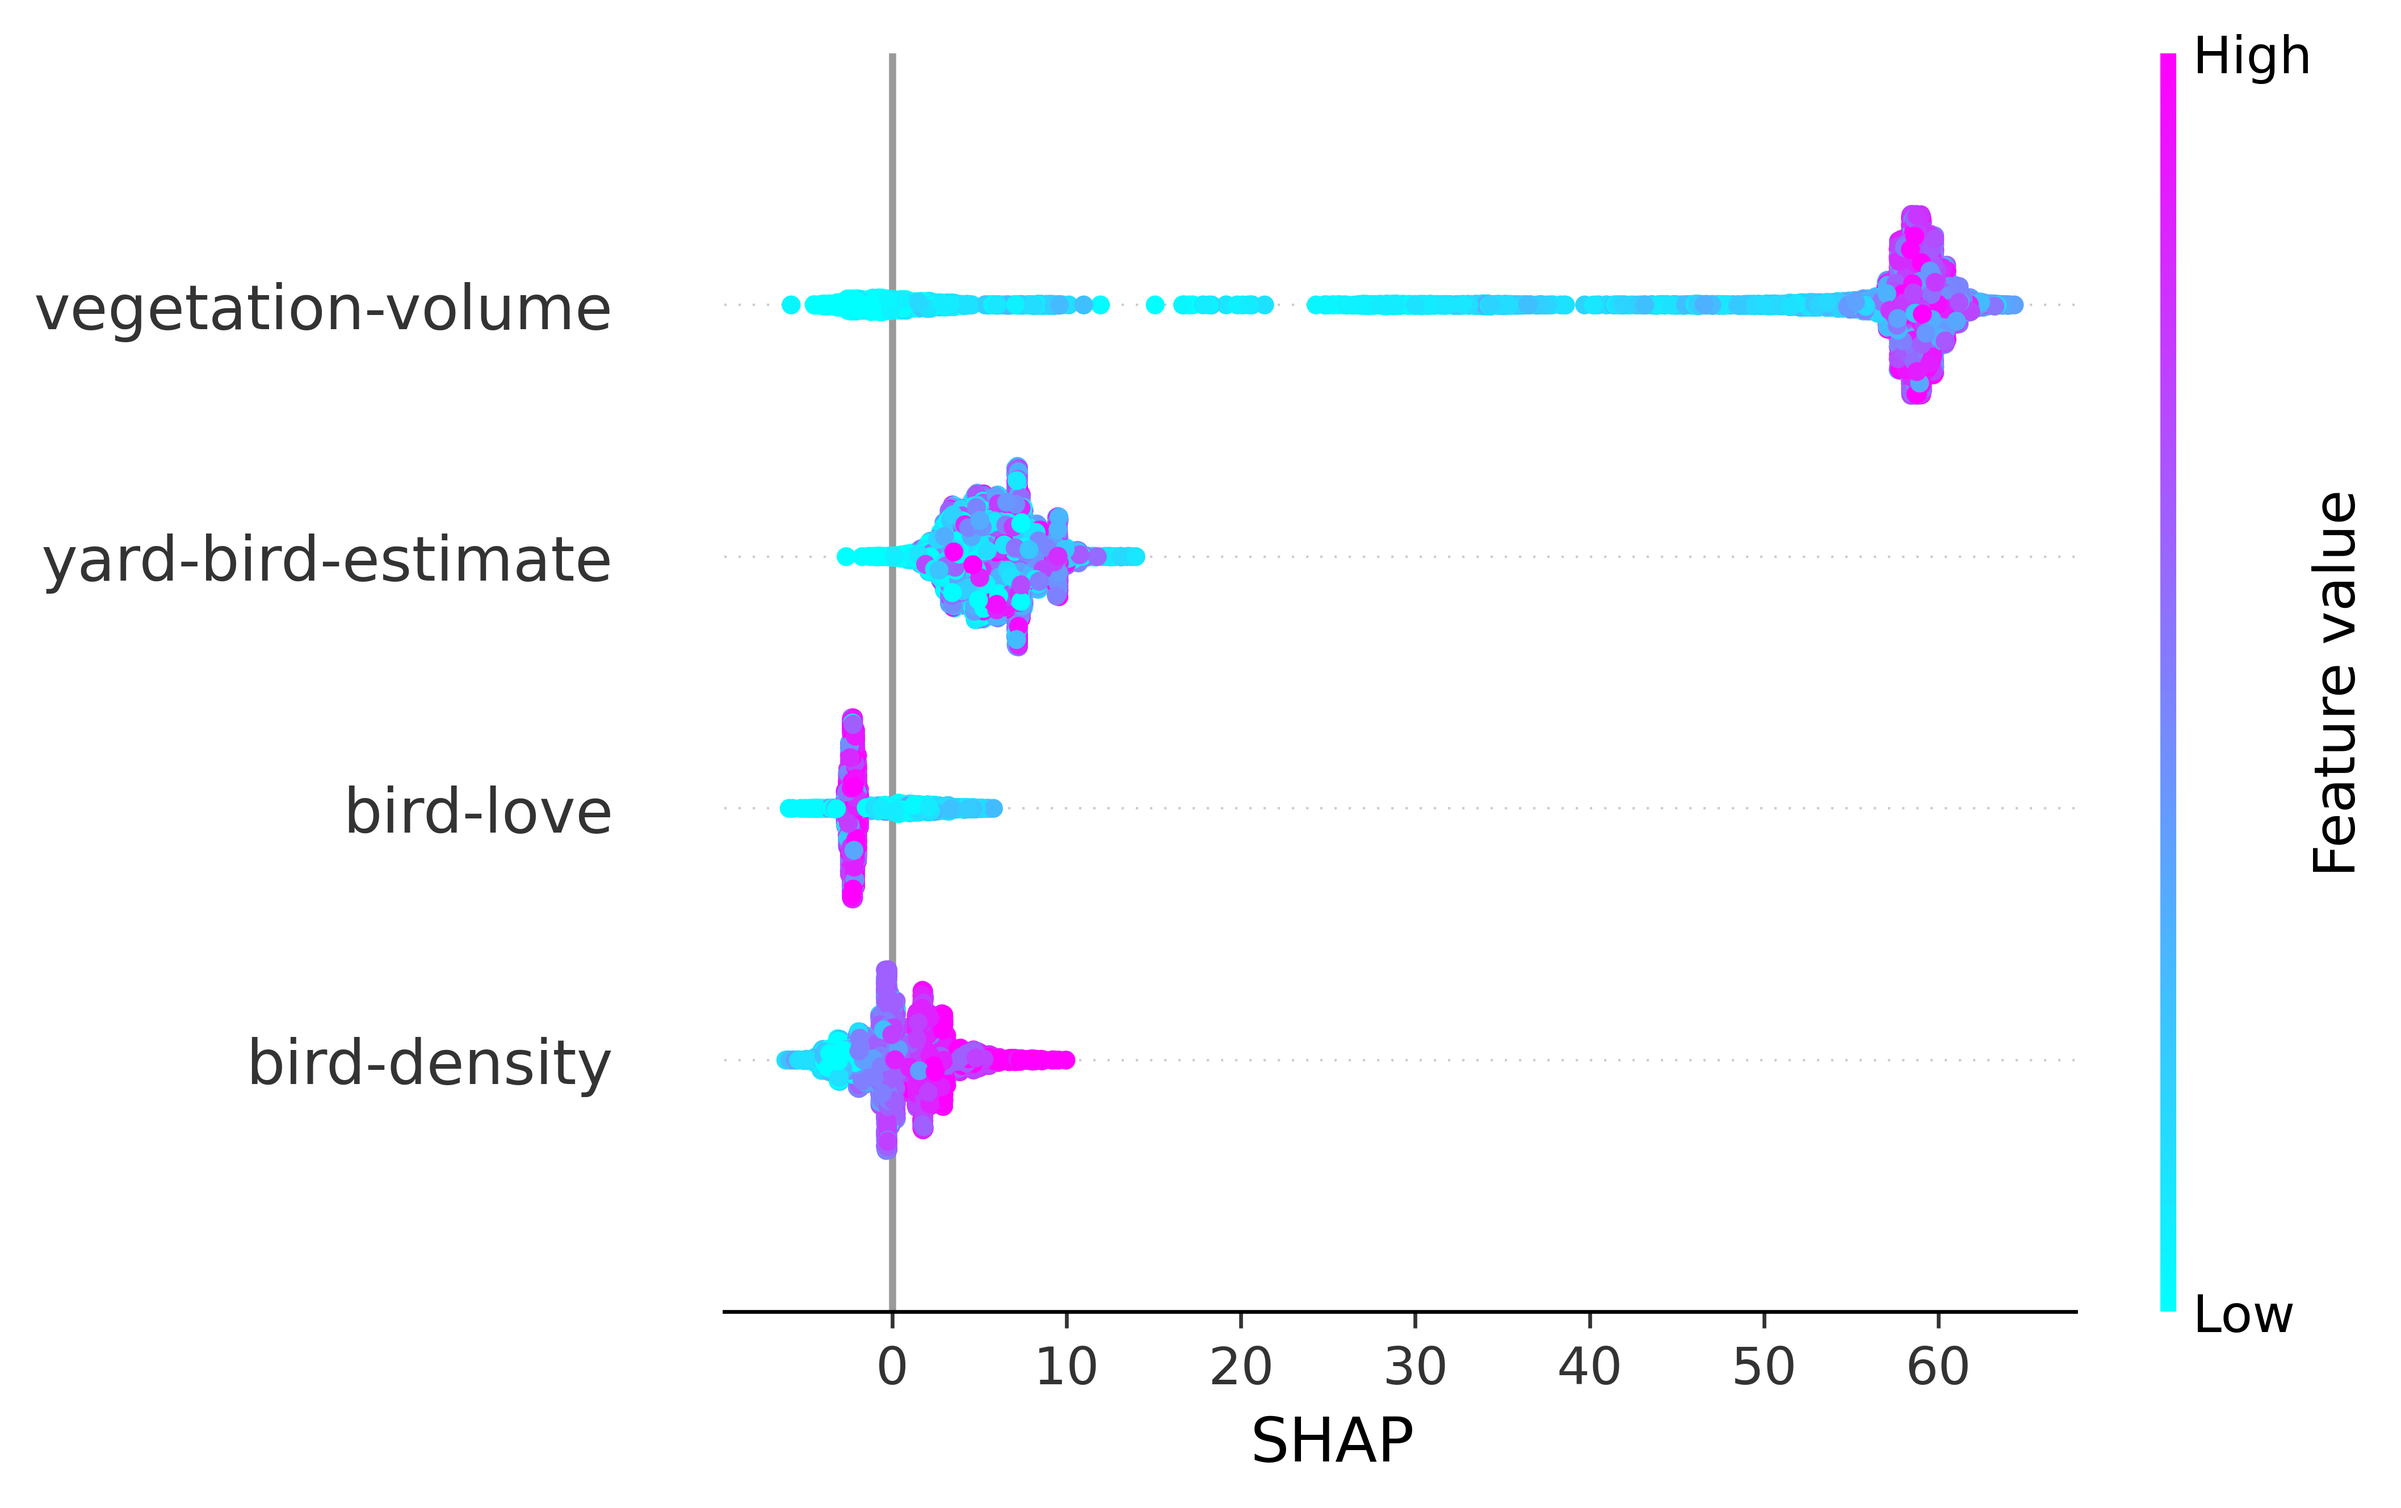
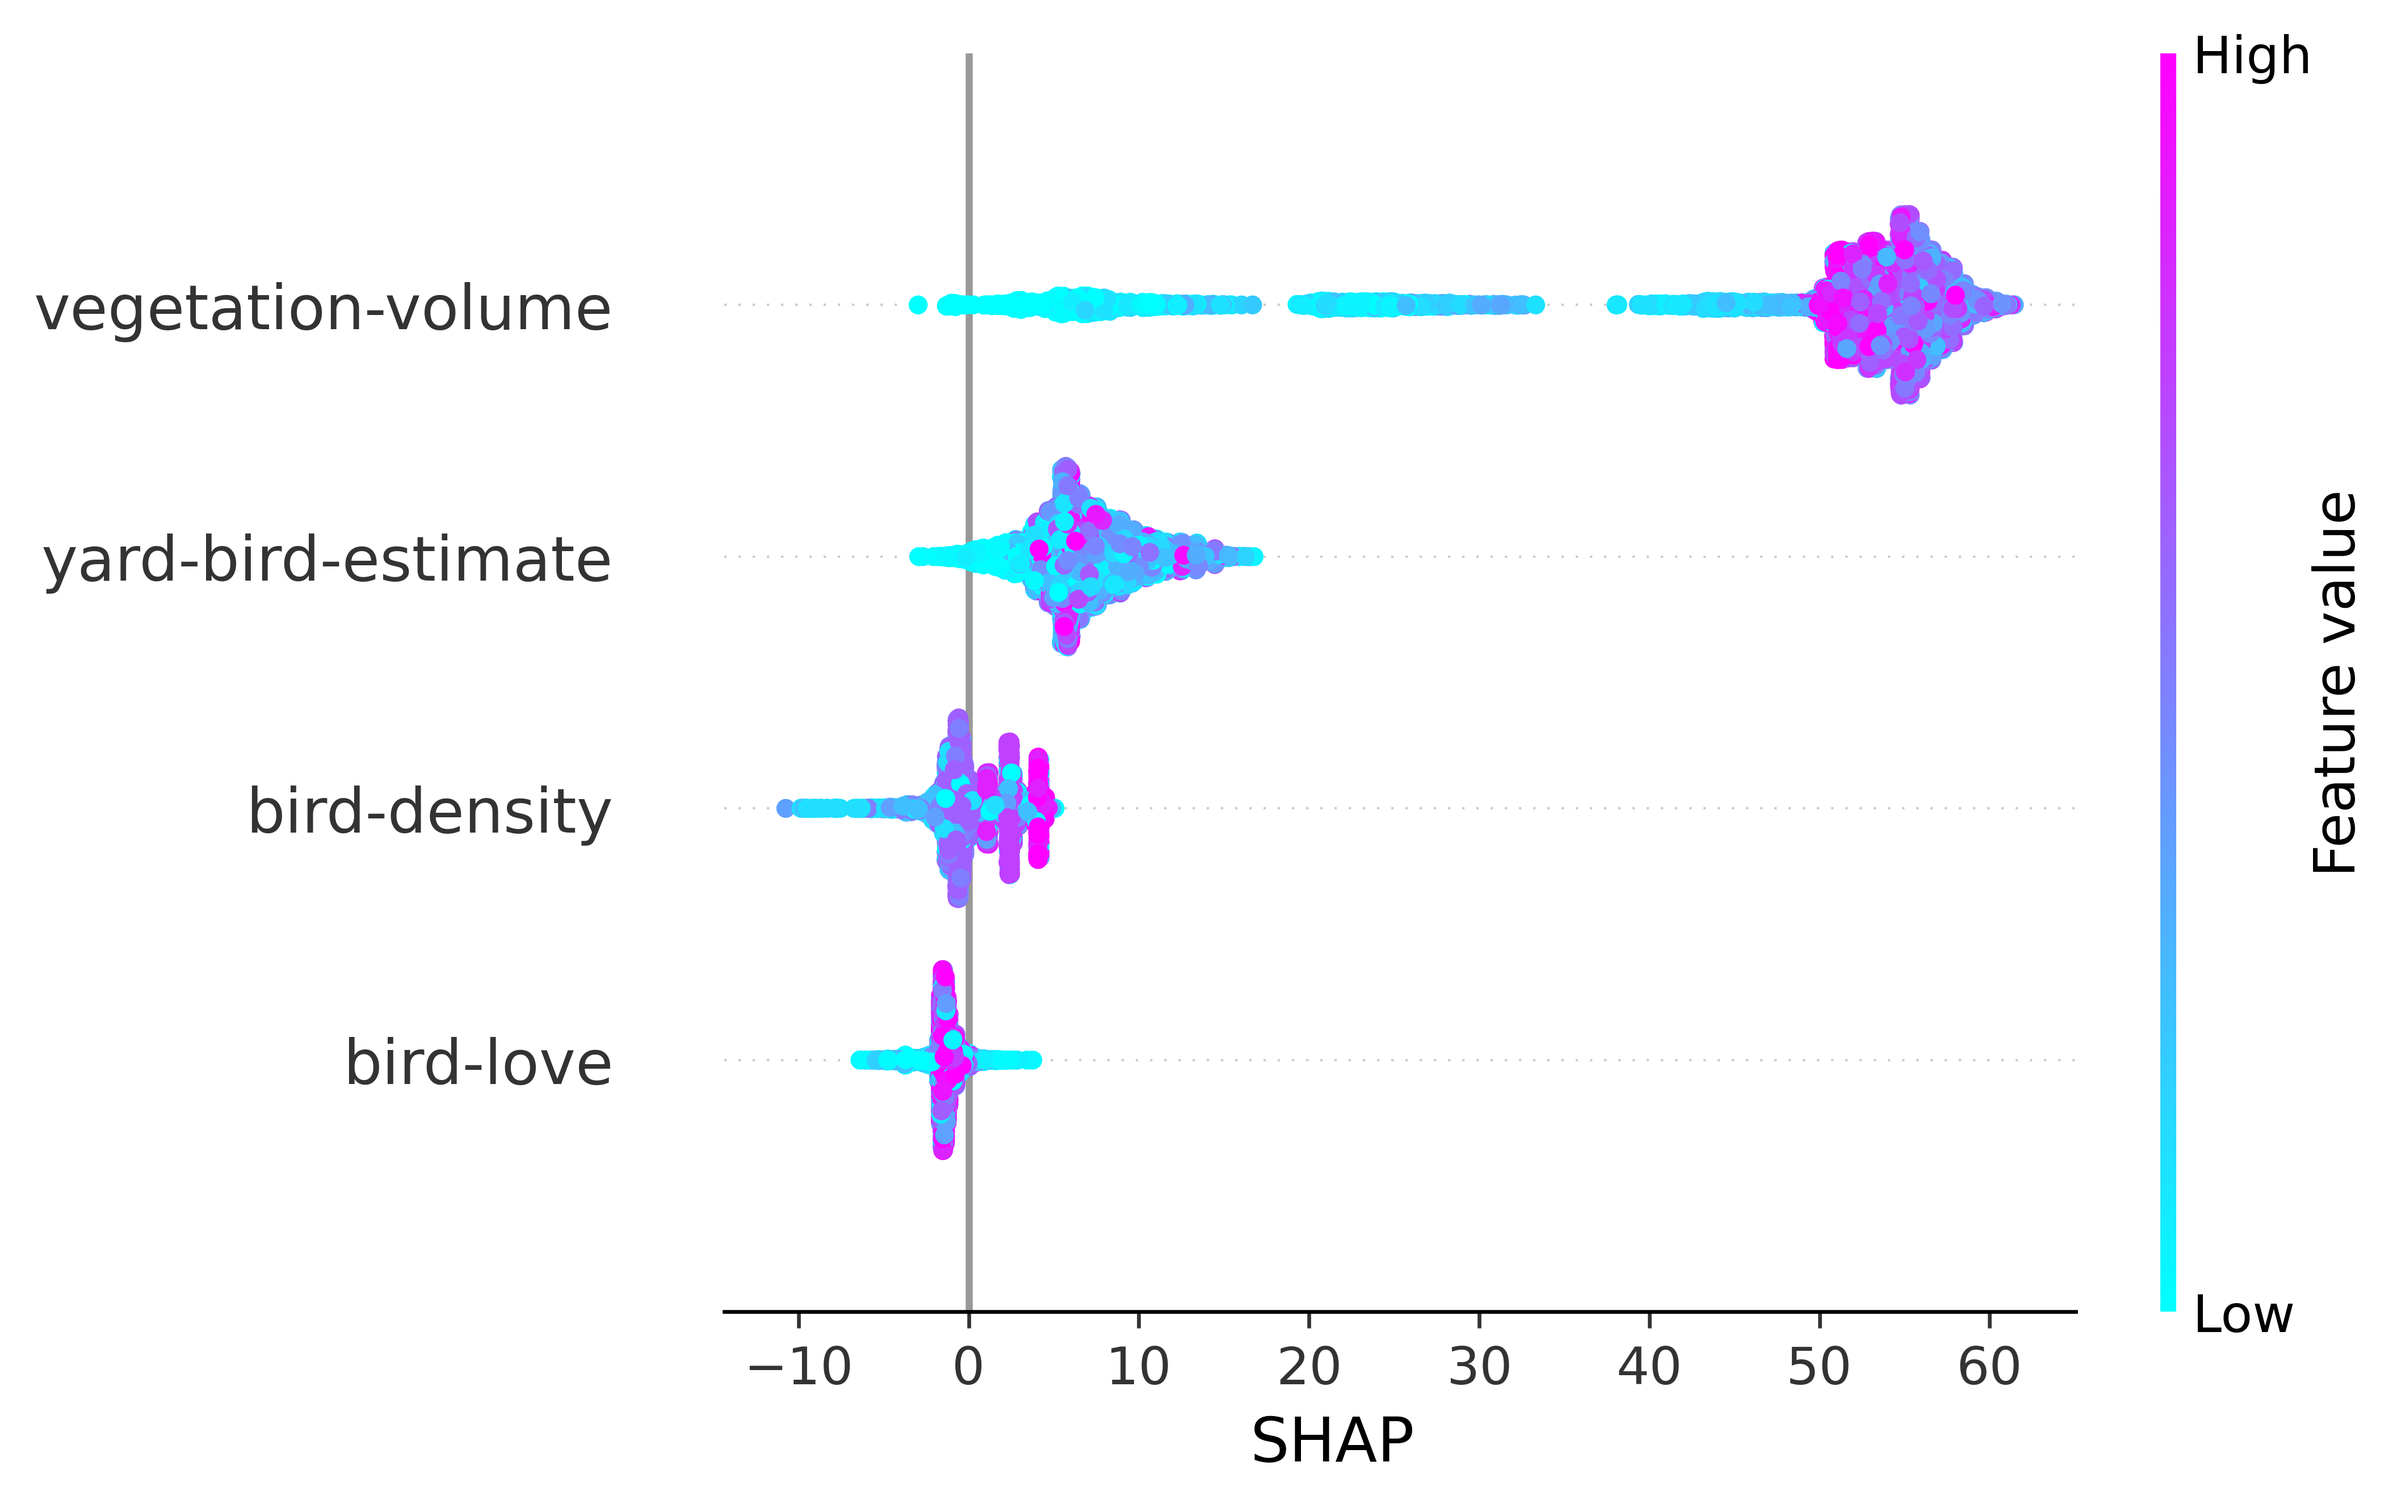
new U plot

diff --git a/analysis/Analyses.py b/analysis/Analyses.py
@@ -59,7 +59,7 @@ class Clustering:
         # plot
         fig = plt.figure()
         fig, axes = plt.subplots(nrows = 1,ncols=1,figsize=(3,4),dpi=500)
-        tree.plot_tree(clf, feature_names=X.columns.values, filled=True)
+        tree.plot_tree(clf, feature_names=X.columns.values, filled=True, proportion=True, rounded=True)
         plt.show()
         return habitat_threshold
     
@@ -133,7 +133,7 @@ class DimensionalityReduction:
     def tSNE(data, data_scaled):
         print('you should use standard scaled data')
         from sklearn.manifold import TSNE
-        tsne = TSNE(perplexity=35).fit_transform(data_scaled)
+        tsne = TSNE(perplexity=25).fit_transform(data_scaled)
         print(tsne)
         data['tsne1'] = tsne[:,0]
         data['tsne2'] = tsne[:,1]
@@ -196,18 +196,22 @@ class Plots:
         # axes[0].tick_params(axis='y',labelsize=13)
         ## single SHAP plot
         #SHAP plot
-        fig = plt.figure()
-        ax = fig.add_subplot()
         shap.plots.beeswarm(shap_values,show=False, color=plt.get_cmap("cool"),
                             plot_size=None)
-        ax.set_xlabel('SHAP',x=0.45)
+        plt.xlabel('SHAP',x=0.45)
         plt.savefig("plots/final_plots/longitudinal/final.png", bbox_inches='tight',dpi=600)
         plt.close()
 
-        fig1 = plt.figure()
-        ax1 = fig1.add_subplot()
         shap.plots.scatter(shap_values[:,"vegetation-volume"])
-        return ax
+        # overwrites my plot with a blank plot every single time.
+        #plt.savefig("plots/final_plots/longitudinal/final_scatter.png", bbox_inches='tight',dpi=600)
+        plt.close()
+
+        fig2 = plt.figure()
+        shap.plots.bar(shap_values)
+        fig2.savefig("plots/final_plots/longitudinal/final_shapbar.png", bbox_inches='tight',dpi=600)
+        plt.close()
+        return
 
 class Predictions:
     def xgBoost_KMeans(datax,datay):
@@ -299,21 +303,6 @@ class Predictions:
         shap_values = explainer(X)
         return r2, mae, feature_importance, shap_values
     
-    # def xgBoost_long(data):
-    #     from xgboost import XGBRegressor
-    #     from sklearn.model_selection import train_test_split
-    #     from sklearn.model_selection import cross_val_score
-    #     from sklearn.preprocessing import LabelEncoder
-    #     from sklearn.preprocessing import StandardScaler
-    #     from sklearn import metrics
-    #     import pandas as pd
-    #     import shap
-
-    #     # to get the # of years you want it's 7 * # of years columns
-    #     # make Y explicit by name - just habitat, or the whole model?
-    #     X = data.iloc[0:,0:140]
-    #     Y = data["habitat59"]
-
 class Stats:
     def tTest(data):
         import pandas as pd
@@ -323,8 +312,9 @@ class Stats:
 
         cluster0 = data.loc[data['labels'] == 0]
         cluster1 = data.loc[data['labels'] == 1]
-        cluster0 = cluster0.sample(1000)
-        cluster1 = cluster1.sample(1000)
+        # Emily said to remove the samples.
+        # cluster0 = cluster0.sample(1000)
+        # cluster1 = cluster1.sample(1000)
         fig = plt.figure(constrained_layout = True, figsize=(8,6))
 
         print('vegetation volume')
@@ -334,10 +324,10 @@ class Stats:
             p_val = "***"
         ax = fig.add_subplot(321)
         x = [cluster0['vegetation-volume'], cluster1['vegetation-volume']]
-        plt.title('vegetation-volume')
+        plt.title('vegetation volume')
         
-        ax.text(x=0, y=0, s= p_val)
-        plt.boxplot(x, labels = ["NN","EoE"])
+        ax.text(x=0.55, y=0, s= p_val)
+        plt.boxplot(x, labels = ["0","1"])
 
         print('habitat')
         t_stat, p_val = mannwhitneyu(cluster0['habitat'], cluster1['habitat'])
@@ -349,8 +339,8 @@ class Stats:
         x = [cluster0['habitat'], cluster1['habitat']]
         plt.title('habitat')
         
-        ax.text(x=0, y=0, s= p_val)
-        plt.boxplot(x, labels = ["NN","EoE"])
+        ax.text(x=0.55, y=0, s= p_val)
+        plt.boxplot(x, labels = ["0","1"])
 
         print('bird-density')
         t_stat, p_val = mannwhitneyu(cluster0['bird-density'], cluster1['bird-density'])
@@ -360,10 +350,10 @@ class Stats:
             p_val = "***"
         ax = fig.add_subplot(323)
         x = [cluster0['bird-density'], cluster1['bird-density']]
-        plt.title('bird-density')
+        plt.title('bird density')
         
-        ax.text(x=0, y=0, s= p_val)
-        plt.boxplot(x, labels = ["NN","EoE"])
+        ax.text(x=0.55, y=0, s= p_val)
+        plt.boxplot(x, labels = ["0","1"])
 
         print('bird-love')
         t_stat, p_val = mannwhitneyu(cluster0['bird-love'], cluster1['bird-love'])
@@ -373,11 +363,10 @@ class Stats:
             p_val = "***"
         ax = fig.add_subplot(324)
         x = [cluster0['bird-love'], cluster1['bird-love']]
-        plt.title('bird-love')
-        
-        ax.text(x=0, y=0, s= p_val)
-
-        plt.boxplot(x, labels = ["NN","EoE"])
+        plt.title('bird love')
+       
+        ax.text(x=0.55, y=0, s= p_val)
+        plt.boxplot(x, labels = ["0","1"])
 
         print('yard-bird-estimate')
         t_stat, p_val = mannwhitneyu(cluster0['yard-bird-estimate'], cluster1['yard-bird-estimate'])
@@ -387,13 +376,12 @@ class Stats:
             p_val = "***"
         ax = fig.add_subplot(325)
         x = [cluster0['yard-bird-estimate'], cluster1['yard-bird-estimate']]
-        plt.title('yard-bird-estimate')
+        plt.title('bird estimate')
 
-        ax.text(x=0, y=0, s= p_val)
+        ax.text(x=0.55, y=0, s= p_val)
+        plt.boxplot(x, labels = ["0","1"])
 
-        plt.boxplot(x, labels = ["NN","EoE"])
-
-        print('avg-neighbor-richness')
+        print('neighbor vegetation')
         t_stat, p_val = mannwhitneyu(cluster0['avg-neighbor-richness'], cluster1['avg-neighbor-richness'])
         
         print(f'U: {t_stat}', f'p-val: {p_val}\n')
@@ -401,7 +389,13 @@ class Stats:
             p_val = "***"
         ax = fig.add_subplot(326)
         x = [cluster0['avg-neighbor-richness'], cluster1['avg-neighbor-richness']]
-        plt.title('avg-neighbor-richness')
-        ax.text(x=0, y=0, s= p_val)
-        plt.boxplot(x, labels = ["NN","EoE"])
+        plt.title('neighbor vegetation')
+        
+        ax.text(x=0.55, y=0, s= p_val)
+        plt.boxplot(x, labels = ["0","1"])
+        
+        # super axes titles
+        fig.supxlabel('Cluster')
+        fig.supylabel('U value')
+
         return plt.show()

diff --git a/analysis/make_long_data.py b/analysis/make_long_data.py
@@ -35,11 +35,12 @@ for file in data_list:
     n += 1
 
 # to get the # of years you want it's 5 * # of years
-start_train = 200 # year 40
-end_train = 225 # year 45
-predict = "habitat90"
+start_train = 100 # year 20
+end_train = 125 # year 45
+predict = "habitat80"
 r2, mae, feature_importance, shap_values = Predictions.xgBoost_long(main, start_train, end_train, predict)
-
+# print results to console
+print(f"R^2 = {r2}\nMAE = {mae}")
 # combine the feature importance of each predictor
 summed_FI = pd.DataFrame({"FI": 0}, index=['vegetation-volume','bird-density','bird-love',
                  'yard-bird-estimate']) # removed avg-neighbor-richness and habitat for now

diff --git a/analysis/veg_vs_habitat.py b/analysis/veg_vs_habitat.py
@@ -1,0 +1,16 @@
+import pandas as pd
+import numpy as np
+import matplotlib.pyplot as plt
+import seaborn as sns
+
+raw = "~/netlogo_models/experiments_9-9/meanveg_meanhabitat.csv"
+data = pd.read_csv(raw)
+
+data = data.rename(columns={'mean [vegetation-volume] of patches': 'Mean Vegetation Volume'})
+data = data.rename(columns={'mean [habitat] of patches': 'Mean Habitat'})
+
+sns.set_style("ticks")
+sns.scatterplot(data, x = 'Mean Vegetation Volume', y = 'Mean Habitat', color='purple')
+sns.despine()
+plt.show()
+

diff --git a/analysis/run.py b/analysis/run.py
@@ -54,9 +54,10 @@ for f in listdir(path):
         data_list.append(path + f)
 
 #### clusters and decision tree ####
-for i in data_list:
-    runCART(i)
+# for i in data_list:
+#     runCART(i)
+# runCART(data_list[0])
 
 ###### Mann-whitney ######
-#data = runStats(data_list[5])
+data = runStats(data_list[5])
 
